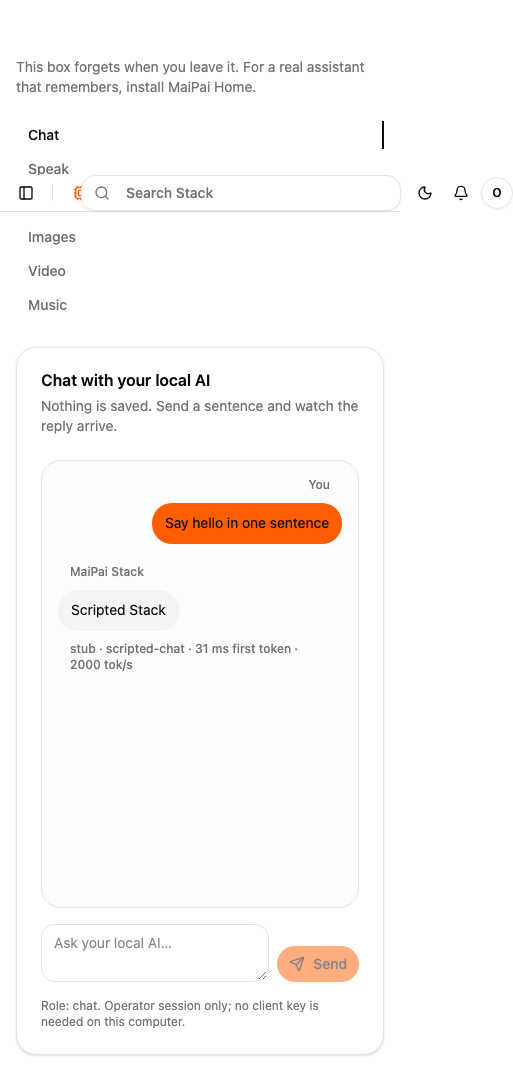
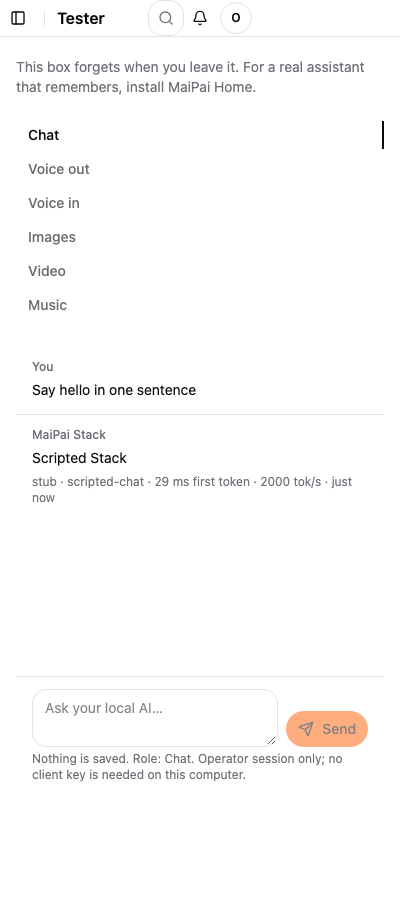
Try it: underline tabs, a stream of turns, the composer at the bottom

diff --git a/frontend/src/pages/TryItPage.tsx b/frontend/src/pages/TryItPage.tsx
@@ -10,15 +10,12 @@ import { Button } from "@/kit/ui/button";
 import { Card, CardContent, CardDescription, CardHeader, CardTitle } from "@/kit/ui/card";
 import { Dialog, DialogContent, DialogDescription, DialogHeader, DialogTitle } from "@/kit/ui/dialog";
 import { Input } from "@/kit/ui/input";
-import { Message, MessageContent, MessageFooter, MessageGroup, MessageHeader } from "@/kit/ui/message";
-import { MessageScroller, MessageScrollerContent, MessageScrollerItem, MessageScrollerProvider, MessageScrollerViewport } from "@/kit/ui/message-scroller";
-import { Bubble, BubbleContent } from "@/kit/ui/bubble";
 import { Tabs, TabsContent, TabsList, TabsTrigger } from "@/kit/ui/tabs";
 
 const Mic = getIcon("Mic"); const Send = getIcon("Send"); const Square = getIcon("Square"); const Volume2 = getIcon("Volume2");
 const READY = new Set(["ready", "busy"]);
 
-function roleReady(role?: RoleRecord): boolean { return !!role && (READY.has(role.state) || role.id === "chat"); }
+function roleReady(role?: RoleRecord): boolean { return !!role && READY.has(role.state); }
 
 function OfflineState({ role, labelOf }: { role: RoleRecord; labelOf: (id: string) => string }) {
   const actionLabel = role.id === "tts" ? "Speak" : role.id === "stt" ? "Listen" : labelOf(role.id);
@@ -26,16 +23,72 @@ function OfflineState({ role, labelOf }: { role: RoleRecord; labelOf: (id: strin
 }
 
 function ChatTab({ role, labelOf }: { role: RoleRecord; labelOf: (id: string) => string }) {
+  const ready = roleReady(role);
   const { messages, status, error, send, stop } = useStackChat(); const [draft, setDraft] = useState("");
+  if (!ready) {
+    return <Card><CardContent className="space-y-3 p-6"><Badge variant="outline">Not ready</Badge><p className="font-medium">{labelOf(role.id)} is not ready yet.</p><p className="text-base text-muted-foreground">{role.reason ?? "Engine binding is not implemented yet."}</p><Button variant="outline" asChild><Link to="/">Back to the board</Link></Button></CardContent></Card>;
+  }
   async function submit(event: FormEvent<HTMLFormElement>) { event.preventDefault(); if (!draft.trim()) return; const next = draft; setDraft(""); await send(next); }
-  return <Card className="overflow-hidden"><CardHeader><CardTitle>Chat with your local AI</CardTitle><CardDescription>Nothing is saved. Send a sentence and watch the reply arrive.</CardDescription></CardHeader><CardContent className="space-y-4"><MessageScrollerProvider autoScroll defaultScrollPosition="end"><MessageScroller className="h-[28rem] rounded-xl border bg-muted/20"><MessageScrollerViewport><MessageScrollerContent className="gap-5 p-4">{messages.length === 0 && <MessageScrollerItem><p className="p-6 text-center text-base text-muted-foreground">Say hello in one sentence.</p></MessageScrollerItem>}{messages.map((message) => <MessageScrollerItem key={message.id}><MessageGroup><Message align={message.role === "user" ? "end" : "start"}><MessageContent><MessageHeader>{message.role === "user" ? "You" : "MaiPai Stack"}</MessageHeader><Bubble align={message.role === "user" ? "end" : "start"} variant={message.role === "user" ? "default" : "secondary"}><BubbleContent>{message.content || (status === "streaming" ? "Thinking…" : "")}</BubbleContent></Bubble>{message.error && <MessageFooter className="text-destructive">{message.error}</MessageFooter>}{message.metrics && <MessageFooter>{message.metrics.engine} · {message.metrics.model} · {message.metrics.firstTokenMs === null ? "no first token" : `${message.metrics.firstTokenMs} ms first token`} · {message.metrics.tokensPerSecond === null ? "—" : `${message.metrics.tokensPerSecond} tok/s`}</MessageFooter>}</MessageContent></Message></MessageGroup></MessageScrollerItem>)}</MessageScrollerContent></MessageScrollerViewport></MessageScroller></MessageScrollerProvider>{error && <p className="text-sm text-destructive" role="alert">{error}</p>}<form className="flex items-end gap-2" onSubmit={submit}><label className="sr-only" htmlFor="try-chat-composer">Message</label><textarea id="try-chat-composer" className="min-h-12 flex-1 resize-y rounded-md border bg-background px-3 py-2 text-sm outline-none focus-visible:ring-2 focus-visible:ring-ring" value={draft} onChange={(event) => setDraft(event.target.value)} placeholder="Ask your local AI…" disabled={status === "sending" || status === "streaming"} /><Button type="submit" disabled={!draft.trim() || status === "sending" || status === "streaming"}><Send className="size-4" />Send</Button>{(status === "sending" || status === "streaming") && <Button type="button" variant="outline" size="icon" aria-label="Stop" onClick={stop}><Square className="size-4" /></Button>}</form><p className="text-xs text-muted-foreground">Role: {labelOf(role.id)}. Operator session only; no client key is needed on this computer.</p></CardContent></Card>;
+  const turns = messages.map((message) => (
+    <div key={message.id} data-slot="try-turn" className="px-4 py-3">
+      <p className="text-xs font-medium text-muted-foreground">{message.role === "user" ? "You" : "MaiPai Stack"}</p>
+      <p className="mt-1 text-sm leading-relaxed wrap-break-word">{message.content || (status === "streaming" && message.role === "assistant" ? "Loading the model…" : "")}</p>
+      {message.error && <p className="mt-1 text-xs text-destructive">{message.error}</p>}
+      {message.metrics && <p className="mt-1 text-xs text-muted-foreground">{message.metrics.engine} · {message.metrics.model} · {message.metrics.firstTokenMs === null ? "no first token" : `${message.metrics.firstTokenMs} ms first token`} · {message.metrics.tokensPerSecond === null ? "—" : `${message.metrics.tokensPerSecond} tok/s`} · just now</p>}
+    </div>
+  ));
+  return (
+    <div className="flex min-h-[28rem] flex-col">
+      <div className="flex-1 overflow-y-auto">
+        <div className="divide-y divide-border">
+          {messages.length === 0 && <p className="p-4 text-center text-base text-muted-foreground">Say hello in one sentence.</p>}
+          {turns}
+        </div>
+      </div>
+      {error && <p className="px-4 py-2 text-sm text-destructive" role="alert">{error}</p>}
+      <div className="sticky bottom-0 border-t border-border bg-background px-4 py-3">
+        <form className="flex items-end gap-2" onSubmit={submit}>
+          <label className="sr-only" htmlFor="try-chat-composer">Message</label>
+          <textarea
+            id="try-chat-composer"
+            className="min-h-12 flex-1 resize-y rounded-md border bg-background px-3 py-2 text-sm outline-none focus-visible:ring-2 focus-visible:ring-ring"
+            placeholder="Ask your local AI…"
+            value={draft}
+            onChange={(event) => setDraft(event.target.value)}
+            disabled={status === "sending" || status === "streaming"}
+          />
+          <Button type="submit" className="shrink-0" disabled={!draft.trim() || status === "sending" || status === "streaming"}><Send className="size-4" />Send</Button>
+          {(status === "sending" || status === "streaming") && <Button type="button" variant="outline" size="icon" aria-label="Stop" onClick={stop}><Square className="size-4" /></Button>}
+        </form>
+        <p className="mt-1 text-xs text-muted-foreground">Nothing is saved. Role: {labelOf(role.id)}. Operator session only; no client key is needed on this computer.</p>
+      </div>
+    </div>
+  );
 }
 
 function VoiceTab({ role, labelOf, kind }: { role: RoleRecord; labelOf: (id: string) => string; kind: "tts" | "stt" }) {
   const [text, setText] = useState(""); const [audioUrl, setAudioUrl] = useState<string | null>(null); const [recording, setRecording] = useState(false); const recorder = useRef<MediaRecorder | null>(null);
   async function speak() { const response = await fetch("/v1/audio/speech", { method: "POST", credentials: "same-origin", headers: { "content-type": "application/json" }, body: JSON.stringify({ model: "tts", input: text }) }); if (response.ok) setAudioUrl(URL.createObjectURL(await response.blob())); }
   function listen() { if (recording) { recorder.current?.stop(); setRecording(false); return; } if (!navigator.mediaDevices || typeof MediaRecorder === "undefined") return; const chunks: BlobPart[] = []; void navigator.mediaDevices.getUserMedia({ audio: true }).then((stream) => { const next = new MediaRecorder(stream); recorder.current = next; next.ondataavailable = (event) => chunks.push(event.data); next.onstop = async () => { stream.getTracks().forEach((track) => track.stop()); const form = new FormData(); form.append("file", new Blob(chunks, { type: next.mimeType }), "recording.webm"); const response = await fetch("/v1/audio/transcriptions", { method: "POST", credentials: "same-origin", body: form }); if (response.ok) setText((await response.json() as { text?: string }).text ?? ""); }; next.start(); setRecording(true); }); }
-  return <Card><CardHeader><CardTitle>{kind === "tts" ? "Speak" : "Listen"}</CardTitle><CardDescription>{kind === "tts" ? "Type a sentence and hear the local voice." : "Record a short sentence and see the words as they return."}</CardDescription></CardHeader><CardContent className="space-y-5">{kind === "tts" ? <><Input value={text} onChange={(event) => setText(event.target.value)} placeholder="Type something to say" /><label className="block space-y-2 text-sm font-medium" htmlFor="try-voice">Voice<select id="try-voice" className="mt-1 h-9 w-full rounded-md border bg-background px-3 text-sm"><option>Default local voice</option></select></label><div className="flex items-center gap-3"><Button variant="outline" onClick={() => void speak()} disabled={!text.trim()}><Volume2 className="size-4" />Play</Button>{audioUrl && <audio controls src={audioUrl}><track kind="captions" srcLang="en" label="Speech" src="data:text/vtt,WEBVTT" /></audio>}</div></> : <><Button variant="outline" onClick={listen}><Mic className="size-4" />{recording ? "Stop recording" : "Record"}</Button><p className="rounded-xl border bg-muted/30 p-5 text-base">{text || "Your words will appear here."}</p></>}<p className="text-xs text-muted-foreground">Role: {labelOf(role.id)}</p></CardContent></Card>;
+  const voiceBlock = kind === "tts" ? (
+    <>
+      <Input value={text} onChange={(event) => setText(event.target.value)} placeholder="Type something to say" />
+      <label className="block space-y-2 text-sm font-medium" htmlFor="try-voice">
+        Voice
+        <select id="try-voice" className="mt-1 h-9 w-full rounded-md border bg-background px-3 text-sm"><option>Default local voice</option></select>
+      </label>
+      <div className="flex items-center gap-3">
+        <Button variant="outline" onClick={() => void speak()} disabled={!text.trim()}><Volume2 className="size-4" />Play</Button>
+        {audioUrl && <audio controls src={audioUrl}><track kind="captions" srcLang="en" label="Speech" src="data:text/vtt,WEBVTT" /></audio>}
+      </div>
+    </>
+  ) : (
+    <>
+      <Button variant="outline" onClick={listen}><Mic className="size-4" />{recording ? "Stop recording" : "Record"}</Button>
+      <p className="rounded-xl border bg-muted/30 p-5 text-base">{text || "Your words will appear here."}</p>
+    </>
+  );
+  return <Card><CardHeader><CardTitle>{kind === "tts" ? "Speak" : "Listen"}</CardTitle><CardDescription>{kind === "tts" ? "Type a sentence and hear the local voice." : "Record a short sentence and see the words as they return."}</CardDescription></CardHeader><CardContent className="space-y-5">{voiceBlock}<p className="text-xs text-muted-foreground">Role: {labelOf(role.id)}</p></CardContent></Card>;
 }
 
 function GeneratorTab({ role, labelOf, acknowledged, onAcknowledge }: { role: RoleRecord; labelOf: (id: string) => string; acknowledged: boolean; onAcknowledge: () => Promise<void> }) {
@@ -43,12 +96,12 @@ function GeneratorTab({ role, labelOf, acknowledged, onAcknowledge }: { role: Ro
   async function generate() { if (!acknowledged) { setAckOpen(true); return; } setSent(true); }
   async function accept() { await onAcknowledge(); setAckOpen(false); setSent(true); }
   const label = labelOf(role.id);
-  return <><Card><CardHeader><CardTitle>{label}</CardTitle><CardDescription>Stateless generation. The result is not saved.</CardDescription></CardHeader><CardContent className="space-y-5"><Input value={prompt} onChange={(event) => setPrompt(event.target.value)} placeholder={`Describe a ${label.toLowerCase()}…`} /><div className="flex flex-wrap items-center gap-3"><label className="text-sm font-medium" htmlFor={`quality-${role.id}`}>Quality</label><select id={`quality-${role.id}`} className="h-9 rounded-md border bg-background px-3 text-sm" value={quality} onChange={(event) => setQuality(event.target.value)}><option>fast</option><option>everyday</option><option>best</option></select><Button variant="outline" onClick={() => void generate()} disabled={!prompt.trim() || !roleReady(role)}>Generate</Button></div>{sent && <p className="rounded-xl border border-dashed p-5 text-base text-muted-foreground">Coming with jobs. The {label} role is wired for a future job response.</p>}{!roleReady(role) && <p className="text-base text-muted-foreground">Coming with jobs. {role.reason ?? "Engine binding is not implemented yet."}</p>}</CardContent></Card><Dialog open={ackOpen} onOpenChange={setAckOpen}><DialogContent><DialogHeader><DialogTitle>Before you generate</DialogTitle><DialogDescription>Generated images, video, and music can be wrong or unexpected. I understand this is AI output and I will review it before I use it.</DialogDescription></DialogHeader><Button onClick={() => void accept()}>I understand</Button></DialogContent></Dialog></>;
+  return <><Card><CardHeader><CardTitle>{label}</CardTitle><CardDescription>Stateless generation. The result is not saved.</CardDescription></CardHeader><CardContent className="space-y-5"><Input value={prompt} onChange={(event) => setPrompt(event.target.value)} placeholder={`Describe a ${label.toLowerCase()}…`} />    <div className="flex flex-wrap items-center gap-3"><label className="text-sm font-medium" htmlFor={`quality-${role.id}`}>Quality</label><select id={`quality-${role.id}`} className="h-9 rounded-md border bg-background px-3 text-sm" value={quality} onChange={(event) => setQuality(event.target.value)}><option>fast</option><option>everyday</option><option>best</option></select><Button variant="outline" onClick={() => void generate()} disabled={!prompt.trim() || !roleReady(role)}>Generate</Button></div>{sent && <p className="rounded-xl border border-dashed p-5 text-base text-muted-foreground">Coming with jobs. The {label} role is wired for a future job response.</p>}</CardContent></Card><Dialog open={ackOpen} onOpenChange={setAckOpen}><DialogContent><DialogHeader><DialogTitle>Before you generate</DialogTitle><DialogDescription>Generated images, video, and music can be wrong or unexpected. I understand this is AI output and I will review it before I use it.</DialogDescription></DialogHeader><Button onClick={() => void accept()}>I understand</Button></DialogContent></Dialog></>;
 }
 
 export function TryItPage({ initialRole = "chat" }: { initialRole?: string } = {}) {
   const roles = useApiResource<{ roles: RoleRecord[] }>("/stack/v1/roles"); const ack = useApiResource<{ acknowledged: boolean }>("/stack/v1/operator/generator-ack"); const [active, setActive] = useState(initialRole);
   const roleMap = useMemo(() => new Map((roles.data?.roles ?? []).map((role) => [role.id, role])), [roles.data]); const labelOf = (id: string) => labelForRole(id, roles.data?.roles); const visible = ["chat", "tts", "stt", "image", "video", "music"].map((id) => roleMap.get(id)).filter((role): role is RoleRecord => !!role);
   async function acknowledge() { await api.post("/stack/v1/operator/generator-ack", { acknowledged: true }); await ack.refetch(); }
-  return <main className="mx-auto w-full max-w-5xl space-y-5 px-4 py-5 sm:px-8 lg:py-6"><p className="max-w-2xl text-sm text-muted-foreground">This box forgets when you leave it. For a real assistant that remembers, install MaiPai Home.</p>{roles.loading && <Card><CardContent className="p-6">Loading abilities…</CardContent></Card>}{roles.data && <Tabs value={active} onValueChange={setActive} orientation="vertical" className="grid gap-6 md:grid-cols-[12rem_1fr]"><TabsList variant="line" className="h-fit w-full items-stretch md:flex-col">{visible.map((role) => <TabsTrigger className="justify-start" key={role.id} value={role.id}>{labelOf(role.id)}</TabsTrigger>)}</TabsList>{visible.map((role) => <TabsContent key={role.id} value={role.id}>{role.id === "chat" ? <ChatTab role={role} labelOf={labelOf} /> : role.id === "tts" || role.id === "stt" ? roleReady(role) ? <VoiceTab role={role} labelOf={labelOf} kind={role.id} /> : <OfflineState role={role} labelOf={labelOf} /> : <GeneratorTab role={role} labelOf={labelOf} acknowledged={ack.data?.acknowledged === true} onAcknowledge={acknowledge} />}</TabsContent>)}</Tabs>}</main>;
+  return <main className="mx-auto w-full max-w-5xl space-y-5 px-4 py-5 sm:px-8 lg:py-6"><p className="max-w-2xl text-sm text-muted-foreground">This box forgets when you leave it. For a real assistant that remembers, install MaiPai Home.</p>{roles.loading && <Card><CardContent className="p-6">Loading abilities…</CardContent></Card>}{roles.data && <Tabs value={active} onValueChange={setActive} orientation="vertical" className="grid gap-6 md:grid-cols-[12rem_1fr]"><TabsList variant="line" className="h-fit w-full items-stretch md:flex-col">{visible.map((role) => <TabsTrigger className="justify-start" key={role.id} value={role.id}>{labelOf(role.id)}</TabsTrigger>)}</TabsList>{visible.map((role) => <TabsContent key={role.id} value={role.id}>{role.id === "chat" ? <ChatTab role={role} labelOf={labelOf} /> : role.id === "tts" || role.id === "stt" ? roleReady(role) ? <VoiceTab role={role} labelOf={labelOf} kind={role.id} /> : <OfflineState role={role} labelOf={labelOf} /> : roleReady(role) ? <GeneratorTab role={role} labelOf={labelOf} acknowledged={ack.data?.acknowledged === true} onAcknowledge={acknowledge} /> : <OfflineState role={role} labelOf={labelOf} />}</TabsContent>)}</Tabs>}</main>;
 }

diff --git a/frontend/src/tryIt.test.tsx b/frontend/src/tryIt.test.tsx
@@ -5,14 +5,46 @@ import { TryItPage } from "@/pages/TryItPage";
 
 afterEach(() => cleanup());
 
-test("Try it shows the ready chat tab and verbatim offline reasons", async () => {
-  globalThis.fetch = mock((input: RequestInfo | URL) => { const path = String(input); if (path.endsWith("/roles")) return Promise.resolve(Response.json({ roles: [
-    { id: "chat", wire: "chat", residency: "resident", description: "Talk locally.", state: "ready", reason: null },
-    { id: "tts", wire: "speech", residency: "resident", description: "Speak locally.", state: "offline", reason: "The voice engine is waiting for its first install." },
-    { id: "image", wire: "job", residency: "jit", description: "Make images.", state: "notInstalled", reason: null },
-  ] })); return Promise.resolve(Response.json({ acknowledged: false })); }) as unknown as typeof fetch;
-  render(<MemoryRouter><TryItPage initialRole="tts" /></MemoryRouter>);
-  await waitFor(() => expect(document.body.textContent).toContain("Chat"));
-  expect(document.body.textContent).toContain("Speak"); expect(document.body.textContent).toContain("Images");
-  expect(document.body.textContent).toContain("The voice engine is waiting for its first install.");
+function stubRoles(roles: Array<{ id: string; state: string; reason: string | null }>): void {
+  globalThis.fetch = mock(async (input: RequestInfo | URL) => {
+    const path = new URL(String(input), "http://local").pathname;
+    if (path.endsWith("/roles")) return new Response(JSON.stringify({ roles: roles.map((role) => ({ id: role.id, wire: role.id, residency: "resident", description: "", state: role.state, reason: role.reason })) }), { status: 200, headers: { "content-type": "application/json" } });
+    return new Response(JSON.stringify({ acknowledged: false }), { status: 200, headers: { "content-type": "application/json" } });
+  }) as unknown as typeof fetch;
+}
+
+test("Try it shows an underline tab per role in page order", async () => {
+  stubRoles([
+    { id: "chat", state: "ready", reason: null },
+    { id: "tts", state: "offline", reason: null },
+    { id: "stt", state: "offline", reason: null },
+    { id: "image", state: "notInstalled", reason: null },
+    { id: "video", state: "notInstalled", reason: null },
+    { id: "music", state: "notInstalled", reason: null },
+  ]);
+  render(<MemoryRouter><TryItPage /></MemoryRouter>);
+  await waitFor(() => expect(document.querySelector('[data-slot="tabs"]')).not.toBeNull());
+  const triggers = Array.from(document.querySelectorAll<HTMLButtonElement>('[data-slot="tabs-trigger"]'));
+  expect(triggers.map((trigger) => trigger.textContent)).toEqual(["Chat", "Voice out", "Voice in", "Images", "Video", "Music"]);
+});
+
+test("an uninstalled generator role shows its tab and the offline reason", async () => {
+  stubRoles([
+    { id: "chat", state: "ready", reason: null },
+    { id: "image", state: "notInstalled", reason: "The Image engine is waiting for its first install." },
+  ]);
+  render(<MemoryRouter><TryItPage initialRole="image" /></MemoryRouter>);
+  await waitFor(() => expect(document.body.textContent).toContain("Not ready"));
+  expect(document.body.textContent).toContain("The Image engine is waiting for its first install.");
+});
+
+test("an offline chat tab shows its empty state with the reason and no composer", async () => {
+  stubRoles([
+    { id: "chat", state: "offline", reason: "The chat engine is waiting for its first install." },
+  ]);
+  render(<MemoryRouter><TryItPage initialRole="chat" /></MemoryRouter>);
+  await waitFor(() => expect(document.body.textContent).toContain("Not ready"));
+  expect(document.body.textContent).toContain("Chat is not ready yet.");
+  expect(document.body.textContent).toContain("The chat engine is waiting for its first install.");
+  expect(document.querySelector("#try-chat-composer")).toBeNull();
 });
